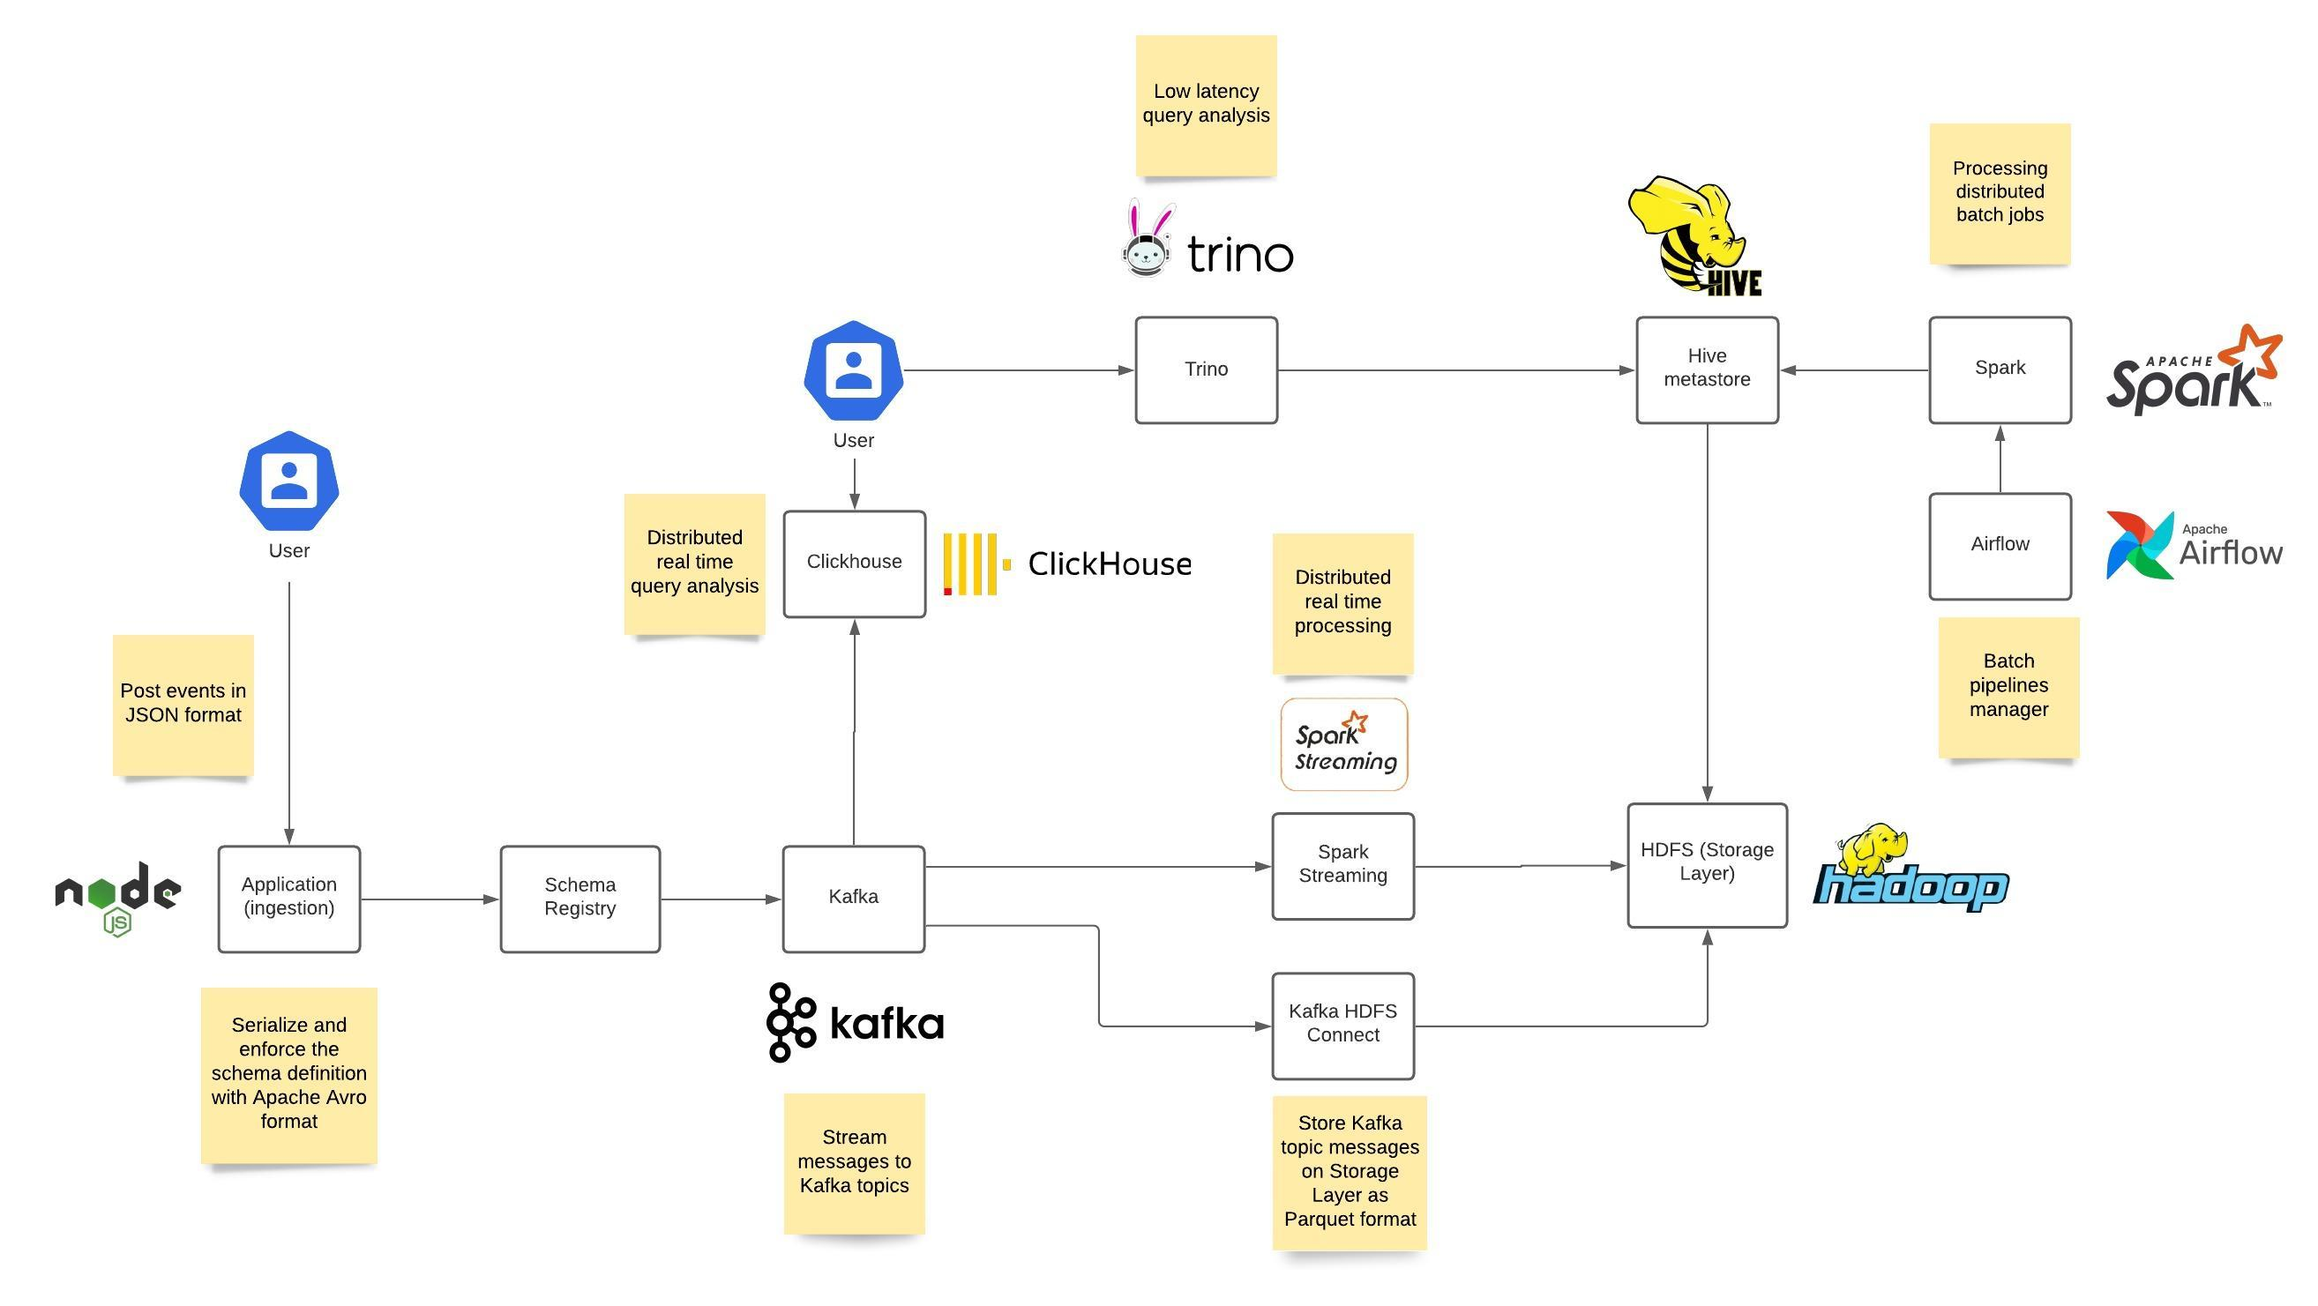
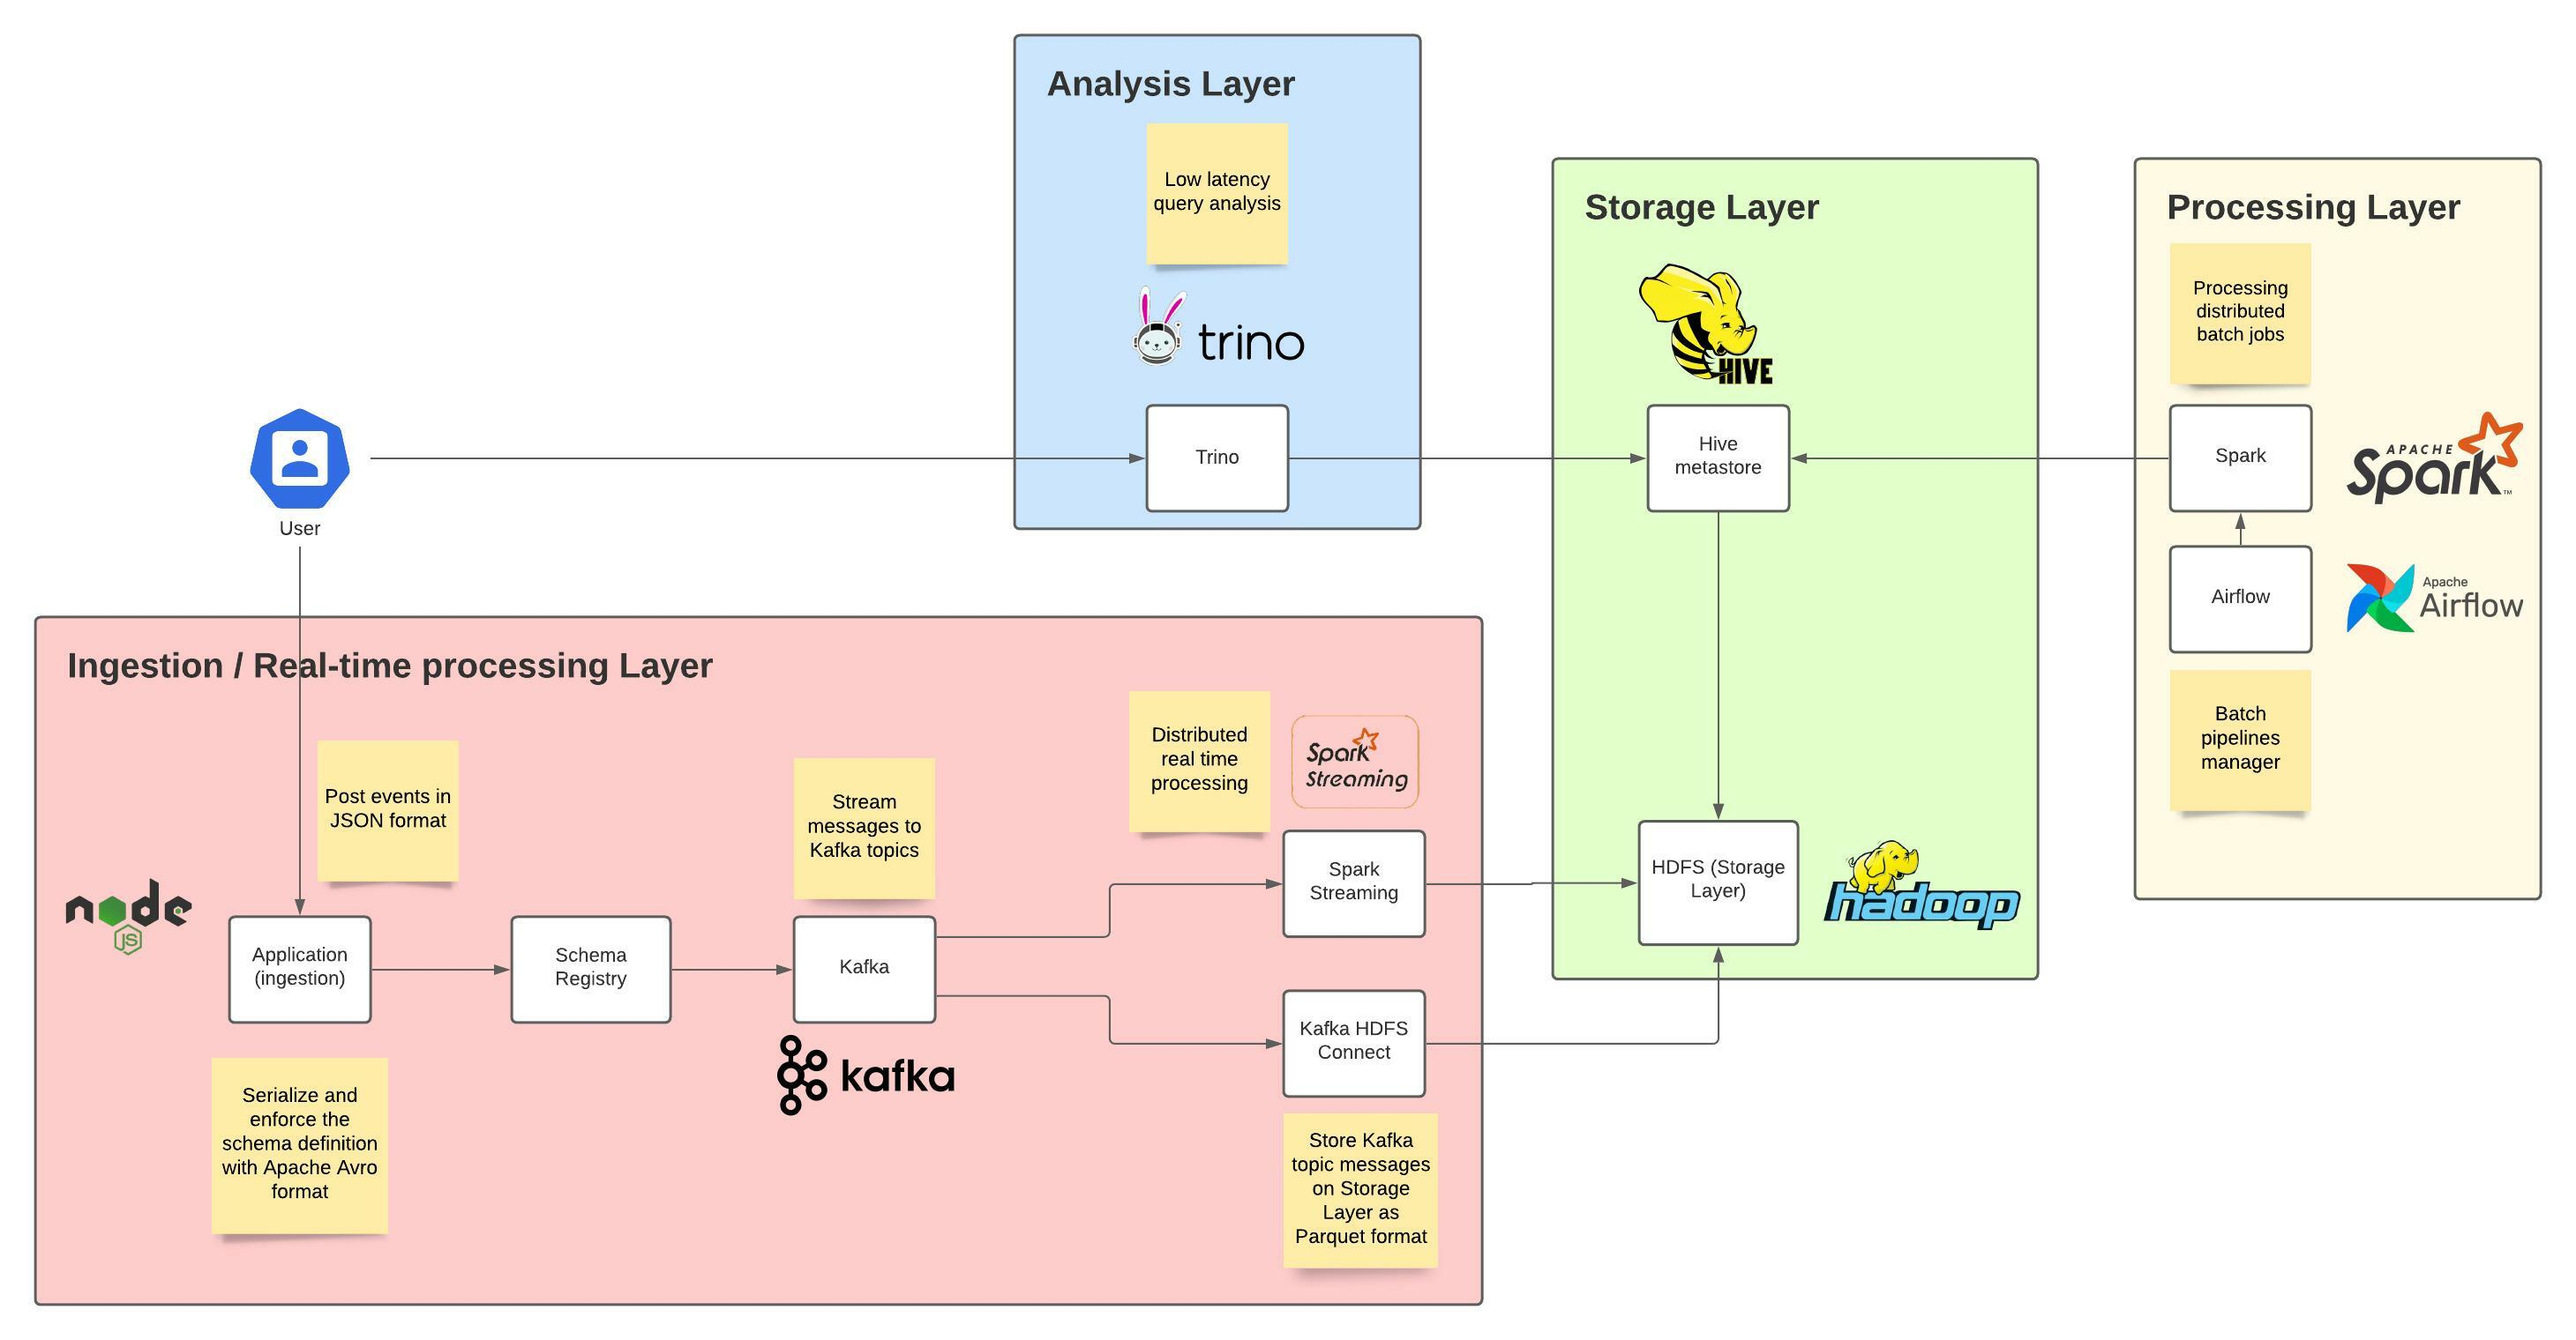
chore: remove clickhouse and update architecture image

diff --git a/doc/monography/readme.md b/doc/monography/readme.md
@@ -19,7 +19,6 @@
   - [2.14 Confluent Schema Registry](#2-14-confluent-schema-registry)
   - [2.15 Computação distribuída](#2-15-computação-distribuída)
   - [2.16 Spark Structured Streaming](#2-16-Spark-Structured-Streaming)
-  - [2.17 Clickhouse](#2-17-Clickhouse)
 - [3. Desenvolvimento](#3-desenvolvimento)
   - [3.1 Arquitetura](#3-1-arquitetura)
   - [3.2 Gerenciamento de pipelines com DAGs](#3-2-gerenciamento-de-pipelines-com-dags)
@@ -205,15 +204,11 @@ Referências:
 
 - https://spark.apache.org/docs/latest/structured-streaming-programming-guide.html
 
-### 2-17 Clickhouse
-
-Clickhouse é uma ferramenta de gerenciamento de banco de dados colunar open-source capaz de realizar consultas SQL analíticas em tempo real. 
-
 ## 3 Desenvolvimento
 
 ### 3-1 Arquitetura
 
-A figura X mostra a arquitetura ao qual a plataforma de dados foi implementada. Na arquitetura, destaca-se 4 camadas - Airflow juntamente com Spark definindo a camada de processamento, ou seja, onde ocorre o gerenciamento de pipelines ETL em lote. Hadoop (HDFS) e Hive Metastore como camada de armazenamento, tanto os dados/informações em sí, como também o catalogo de dados. Trino e Clickhouse compõe a camada de análise, ao qual é possível executar instruções utilizando-se da síntaxe SQL para a exploração analítica dos dados. Por fim, a aplicação escrita em Javascript (Node.js), Apache Kafka e Spark Streaming compõem a camada de ingestão e processamento de dados em tempo real.
+A figura X mostra a arquitetura ao qual a plataforma de dados foi implementada. Na arquitetura, destaca-se 4 camadas - Airflow juntamente com Spark definindo a camada de processamento, ou seja, onde ocorre o gerenciamento de pipelines ETL em lote. Hadoop (HDFS) e Hive Metastore como camada de armazenamento, tanto os dados/informações em sí, como também o catalogo de dados. Trino compõe a camada de análise, ao qual é possível executar instruções utilizando-se da síntaxe SQL para a exploração analítica dos dados. Por fim, a aplicação escrita em Javascript (Node.js), Apache Kafka e Spark Streaming compõem a camada de ingestão e processamento de dados em tempo real.
 
 ![Arquitetura](../images/architecture.jpeg)
 
